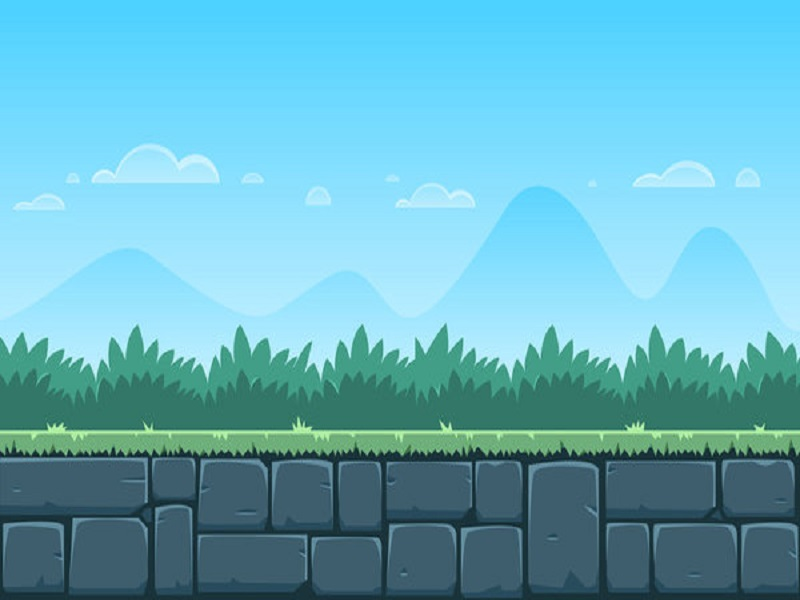
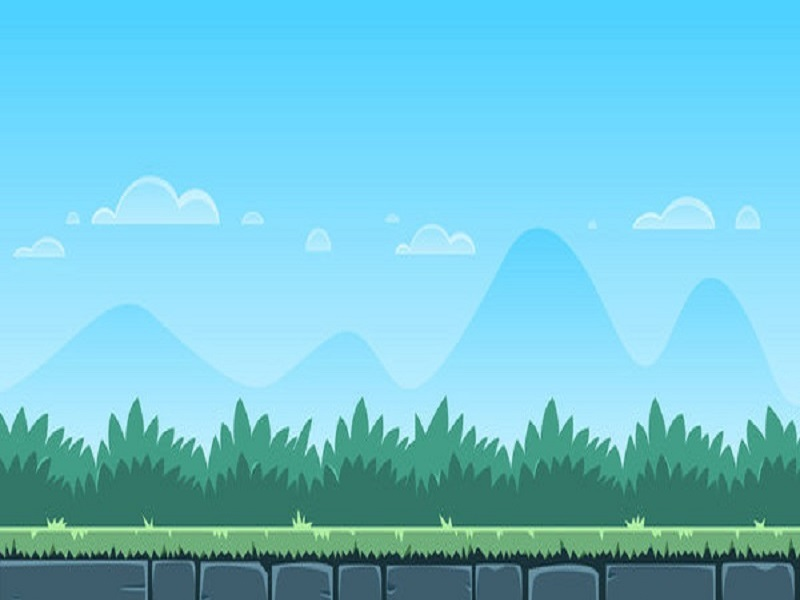
Added Graphic Mode + Updated Temp Title Screen

diff --git a/FlowerGame/FlowerGame/Game.cpp b/FlowerGame/FlowerGame/Game.cpp
@@ -91,6 +91,19 @@ void Game::processKeys(sf::Event t_event)
 	{
 		m_exitGame = true;
 	}
+
+	// Only works on Title Screen
+	if (m_titleScreen == true)
+	{
+		if (sf::Keyboard::Space == t_event.key.code) // Enter game, remove title screen
+		{
+			m_titleScreen = false;
+		}
+		if (sf::Keyboard::Num9 == t_event.key.code) // Enable/ disable graphic mode (via num 9)
+		{
+			m_graphicMode = !m_graphicMode;
+		}
+	}
 }
 
 /// <summary>
@@ -112,13 +125,24 @@ void Game::render()
 {
 	m_window.clear(sf::Color::White);
 
-	// Title Screen (Commented until graphic mode is created)
-	// m_window.draw(m_title); // Render Title BG
-	// m_window.draw(m_titleText); // Render Title Text
+	if (m_titleScreen == true) // Title Screen 
+	{
+	    m_window.draw(m_title); // Render Title BG
+	    m_window.draw(m_titleText); // Render Title Text
+	}
+	else // Game
+	{
+		if (m_graphicMode == true) // Graphic Mode On
+		{
 
-	// Non-Graphic Renders
-	m_window.draw(m_backgroundS); // Render Background
-	m_window.draw(m_flowerHitbox); // Render Flower Hitbox
+		}
+		else // Graphic Mode Off
+		{
+			// Non-Graphic Renders
+			m_window.draw(m_backgroundS); // Render Background
+			m_window.draw(m_flowerHitbox); // Render Flower Hitbox
+		}
+	}
 
 	// REMOVE BELOW
 	m_window.draw(m_logoSprite);

diff --git a/FlowerGame/FlowerGame/Game.h b/FlowerGame/FlowerGame/Game.h
@@ -43,9 +43,12 @@ private:
 	sf::Sprite m_logoSprite; // sprite used for sfml logo
 	bool m_exitGame; // control exiting game
 
-
+	// Others
+	bool m_graphicMode{ false };
 
 	// Title Screen (Non-Graphic + Graphic)
+	bool m_titleScreen{ true };
+
 	sf::RectangleShape m_title;
 	sf::Vector2f m_titleL;
 	sf::Text m_titleText;
